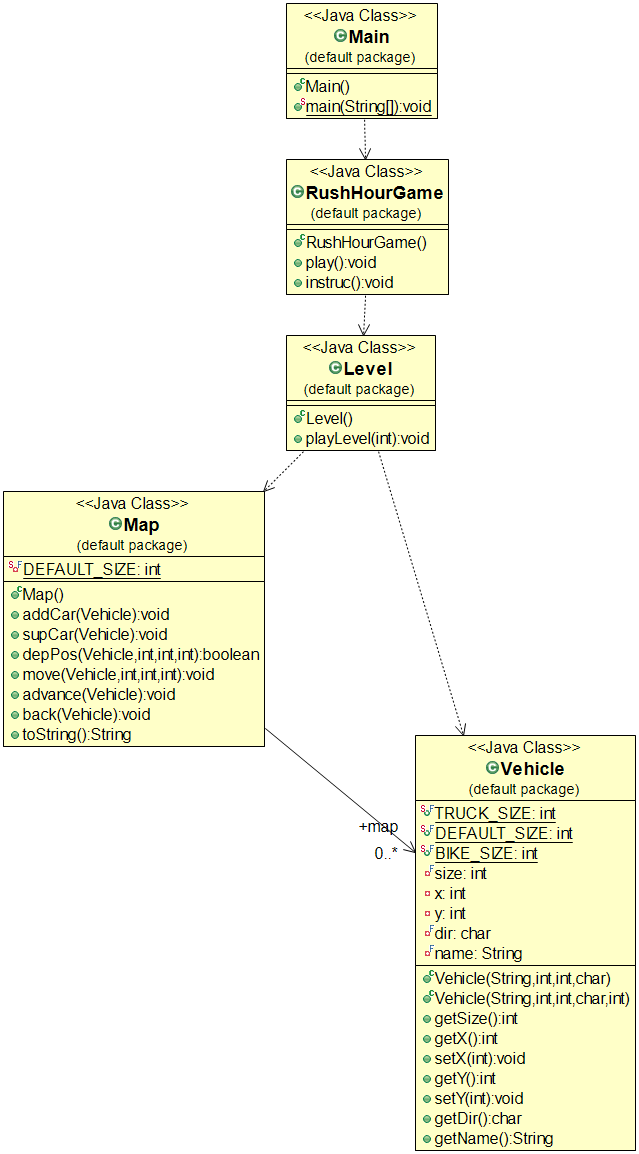
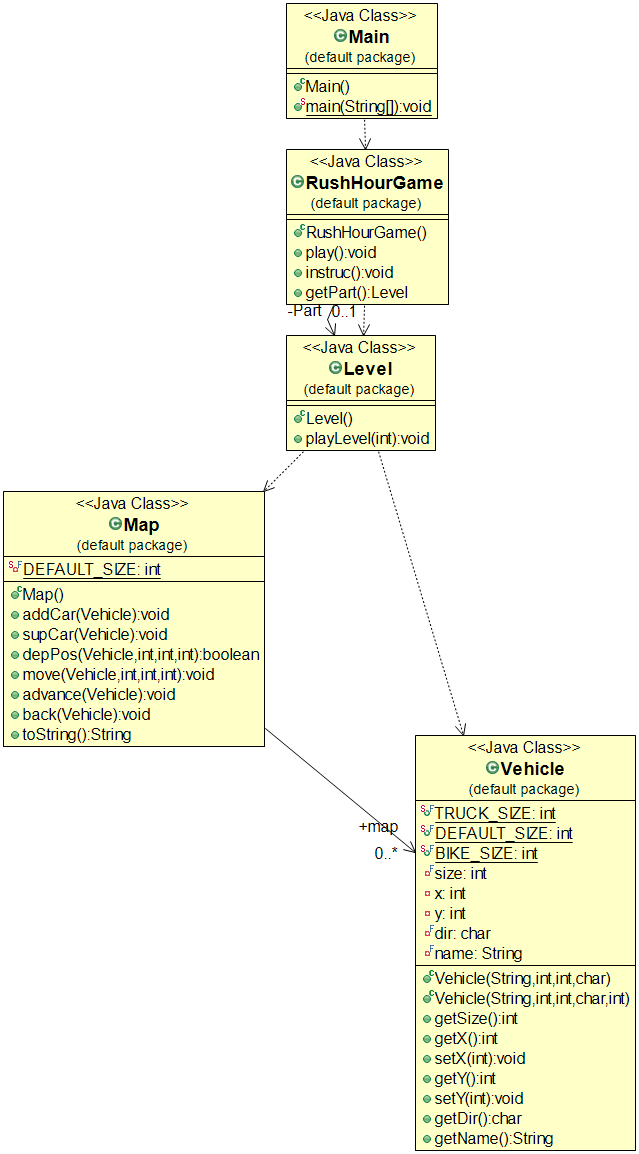
creation of a part attribute that represents all the levels

Changed region(s): [[0.446, 0.1248, 0.7136, 0.2808]]

diff --git a/src/RushHourGame.java b/src/RushHourGame.java
@@ -5,7 +5,10 @@
  */
 public class RushHourGame {
 	
-	
+	/**
+	 * creation of a part attribute that represents all the levels
+	 */
+	private final Level Part= new Level();
 
 	//TODO explain what means "ready to be played game"
 	// it will help finding fields (name, type, initial values)
@@ -25,10 +28,9 @@ public class RushHourGame {
 		
 		// TODO rename Partie1 (naming conventions)
 		// TODO level should have already been created
-		Level Game = new Level();
-		Game.playLevel(1);
-		Game.playLevel(2);
-		Game.playLevel(3);
+		getPart().playLevel(1);
+		getPart().playLevel(2);
+		getPart().playLevel(3);
 		System.out.println("Congratulations, you finished the game!!!!");
 	}
 	/**
@@ -41,6 +43,11 @@ public class RushHourGame {
 		
 	}
 
+	public Level getPart() {
+		return Part;
+	}
+
+	
 
 }
 
